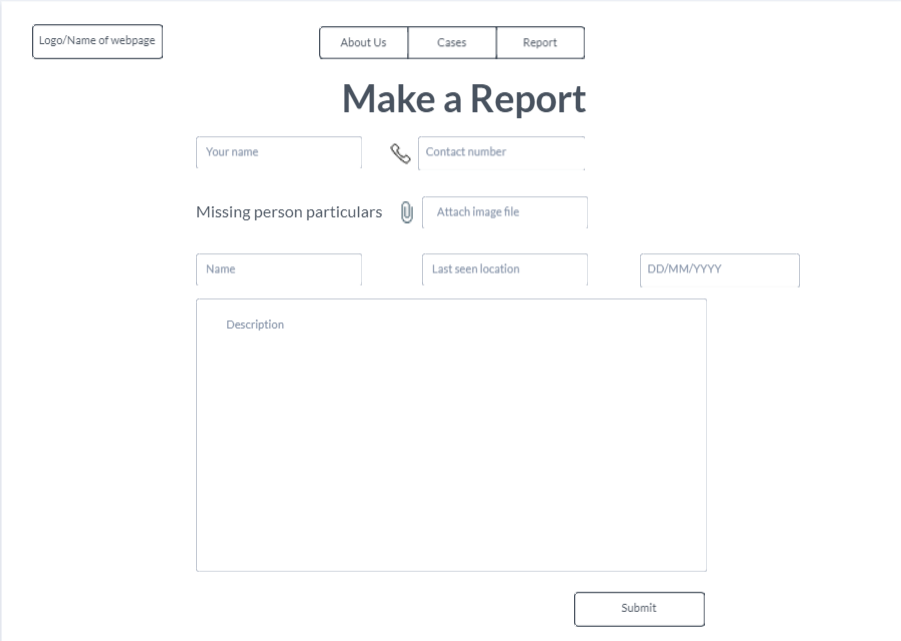
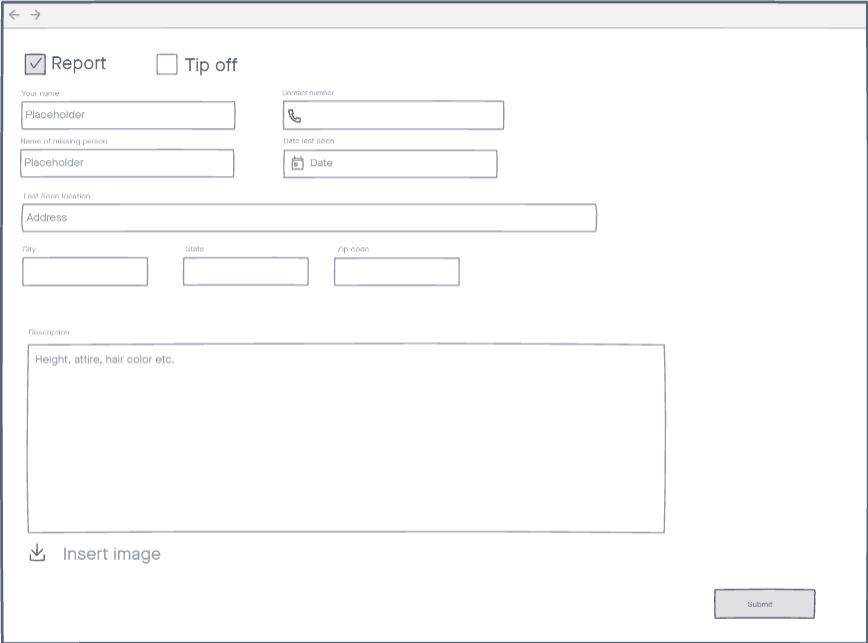
added inputs

diff --git a/form.html b/form.html
@@ -9,11 +9,13 @@
     <!-- Bootstrap CSS -->
     <link href="https://cdn.jsdelivr.net/npm/bootstrap@5.0.0-beta1/dist/css/bootstrap.min.css" rel="stylesheet"
         integrity="sha384-giJF6kkoqNQ00vy+HMDP7azOuL0xtbfIcaT9wjKHr8RbDVddVHyTfAAsrekwKmP1" crossorigin="anonymous">
-    
-    <!-- Font Awesome -->
-    <link rel="stylesheet" href="https://cdnjs.cloudflare.com/ajax/libs/font-awesome/5.15.1/css/all.min.css" integrity="sha512-+4zCK9k+qNFUR5X+cKL9EIR+ZOhtIloNl9GIKS57V1MyNsYpYcUrUeQc9vNfzsWfV28IaLL3i96P9sdNyeRssA==" crossorigin="anonymous" />
 
-    
+    <!-- Font Awesome -->
+    <link rel="stylesheet" href="https://cdnjs.cloudflare.com/ajax/libs/font-awesome/5.15.1/css/all.min.css"
+        integrity="sha512-+4zCK9k+qNFUR5X+cKL9EIR+ZOhtIloNl9GIKS57V1MyNsYpYcUrUeQc9vNfzsWfV28IaLL3i96P9sdNyeRssA=="
+        crossorigin="anonymous" />
+
+
     <!-- Custom CSS -->
     <link href='styles.css' rel='stylesheet'>
     <title>Report</title>
@@ -45,21 +47,67 @@
         </div>
     </nav>
     <form class='p-3'>
-  <div class="mb-3">
-    <label for="exampleInputEmail1" class="form-label">Name</label>
-    <input type="email" class="form-control" id="exampleInputEmail1" aria-describedby="emailHelp">
-    <div id="emailHelp" class="form-text">We'll never share your email with anyone else.</div>
-  </div>
-  <div class="mb-3">
-    <label for="exampleInputPassword1" class="form-label">Password</label>
-    <input type="password" class="form-control" id="exampleInputPassword1">
-  </div>
-  <div class="mb-3 form-check">
-    <input type="checkbox" class="form-check-input" id="exampleCheck1">
-    <label class="form-check-label" for="exampleCheck1">Check me out</label>
-  </div>
-  <button type="submit" class="btn btn-primary">Submit</button>
-</form>
+
+    <div class='d-flex'>
+        <div class="form-check me-4">
+            <input class="form-check-input" type="radio" name="flexRadioDefault" id="flexRadioDefault1">
+            <label class="form-check-label" for="flexRadioDefault1">
+                Report
+            </label>
+        </div>
+
+        <div class="form-check">
+            <input class="form-check-input" type="radio" name="flexRadioDefault" id="flexRadioDefault2" checked>
+            <label class="form-check-label" for="flexRadioDefault2">
+                Tip-off
+            </label>
+        </div>
+    </div>
+
+        <div class="d-flex">
+            <div class='me-5 my-3'>
+                <label class="form-label">Name</label>
+                <input type="text" class="form-control" id="name">
+            <!-- <div id="emailHelp" class="form-text">We'll never share your email with anyone else.</div> -->
+            </div>
+            <div class='ms-5 my-3'>
+                <label class="form-label">Contact</label>
+                <input type="text" class="form-control" id="contact" placeholder='&#x1F4DE'>
+            </div>
+
+        </div>
+
+        <div class="d-flex">
+            <div class='me-5 my-3'>
+                <label class="form-label">Name of missing person</label>
+                <input type="text" class="form-control" id="namemissing">
+            </div>
+            <div class='ms-5 my-3'>
+                <label class="form-label">Date last seen</label>
+                <input type="text" class="form-control" id="date" placeholder='&#x1F4C6'>
+            </div>
+        </div>
+
+        <label>Address last seen*</label>
+        <input type='text' class='form-control' id='address'>
+
+        <div class="d-flex">
+            <div class='me-5 my-3'>
+                <label class="form-label">City</label>
+                <input type="text" class="form-control" id="city">
+            </div>
+            <div class='mx-5 my-3'>
+                <label class="form-label">State</label>
+                <input type="text" class="form-control" id="state">
+            </div>
+            <div class='mx-5 my-3'>
+                <label class="form-label">Zip code</label>
+                <input type="text" class="form-control" id="zipcode">
+            </div>
+        </div>
+        
+        <button type="submit" class="btn btn-primary">Submit</button>
+    </form>
 
     <!-- Optional JavaScript; choose one of the two! -->
 
